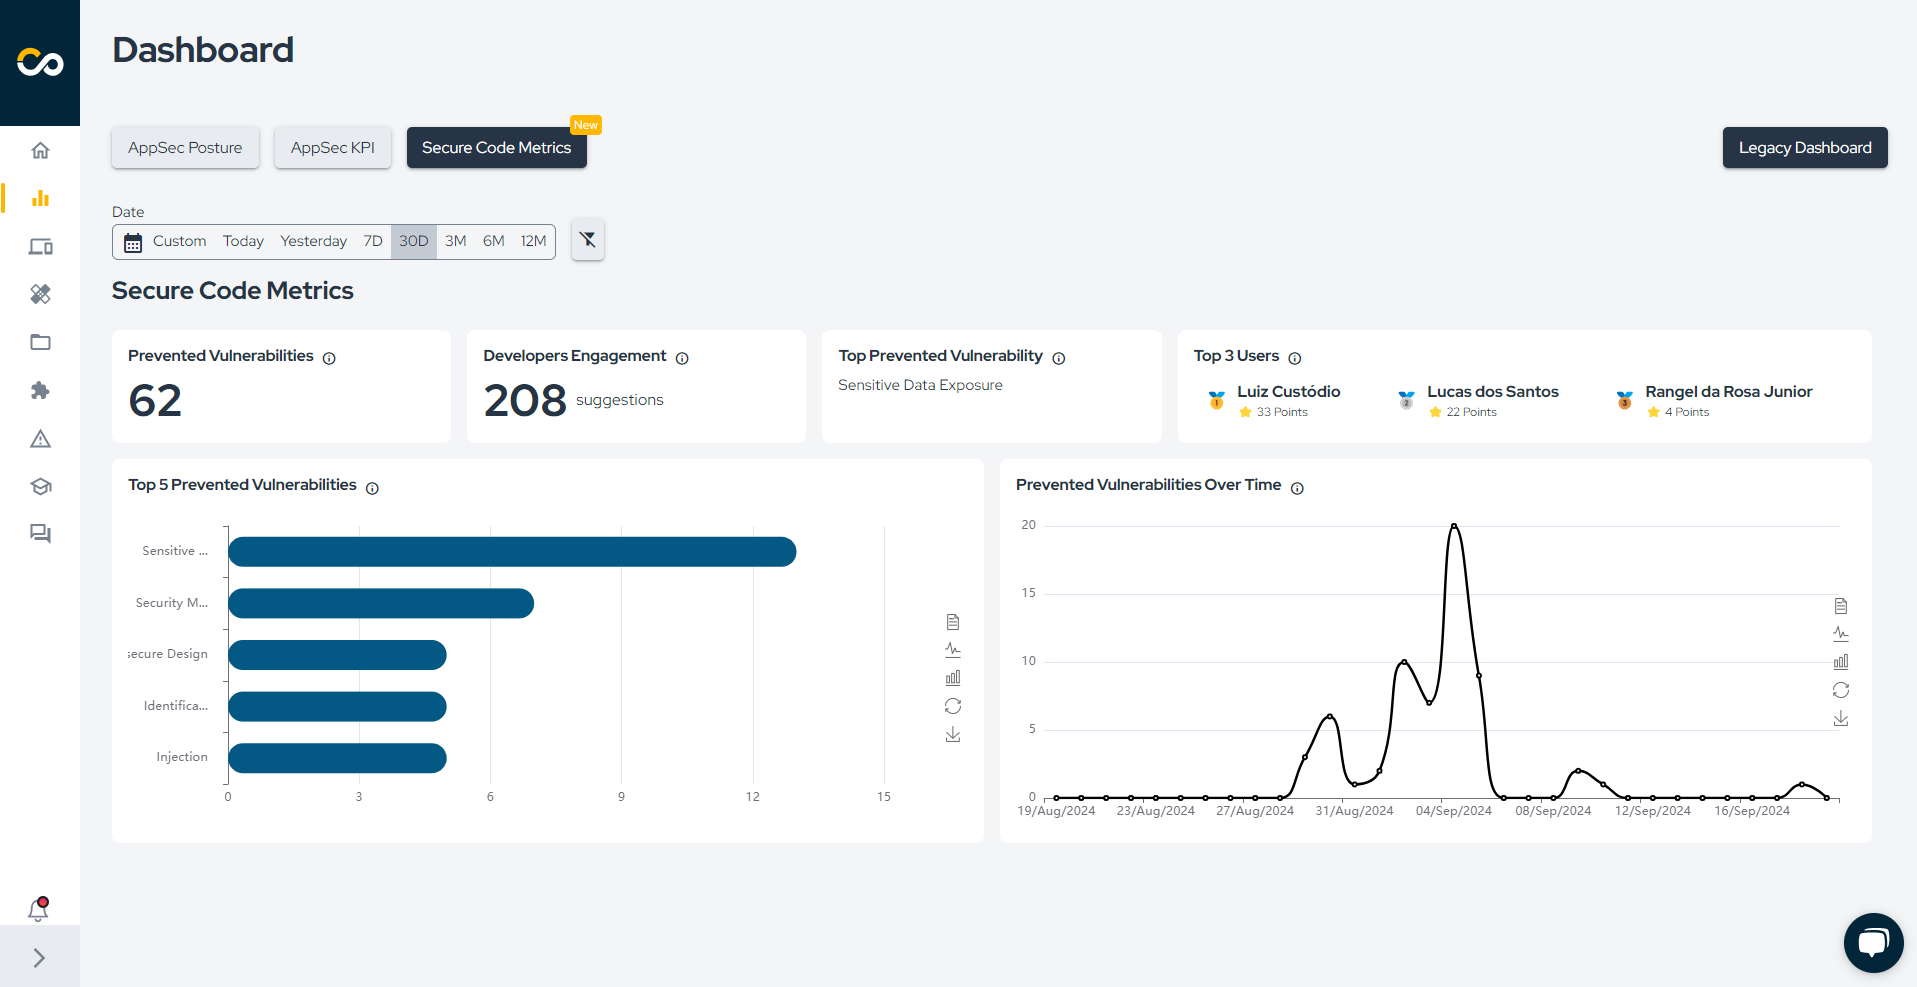
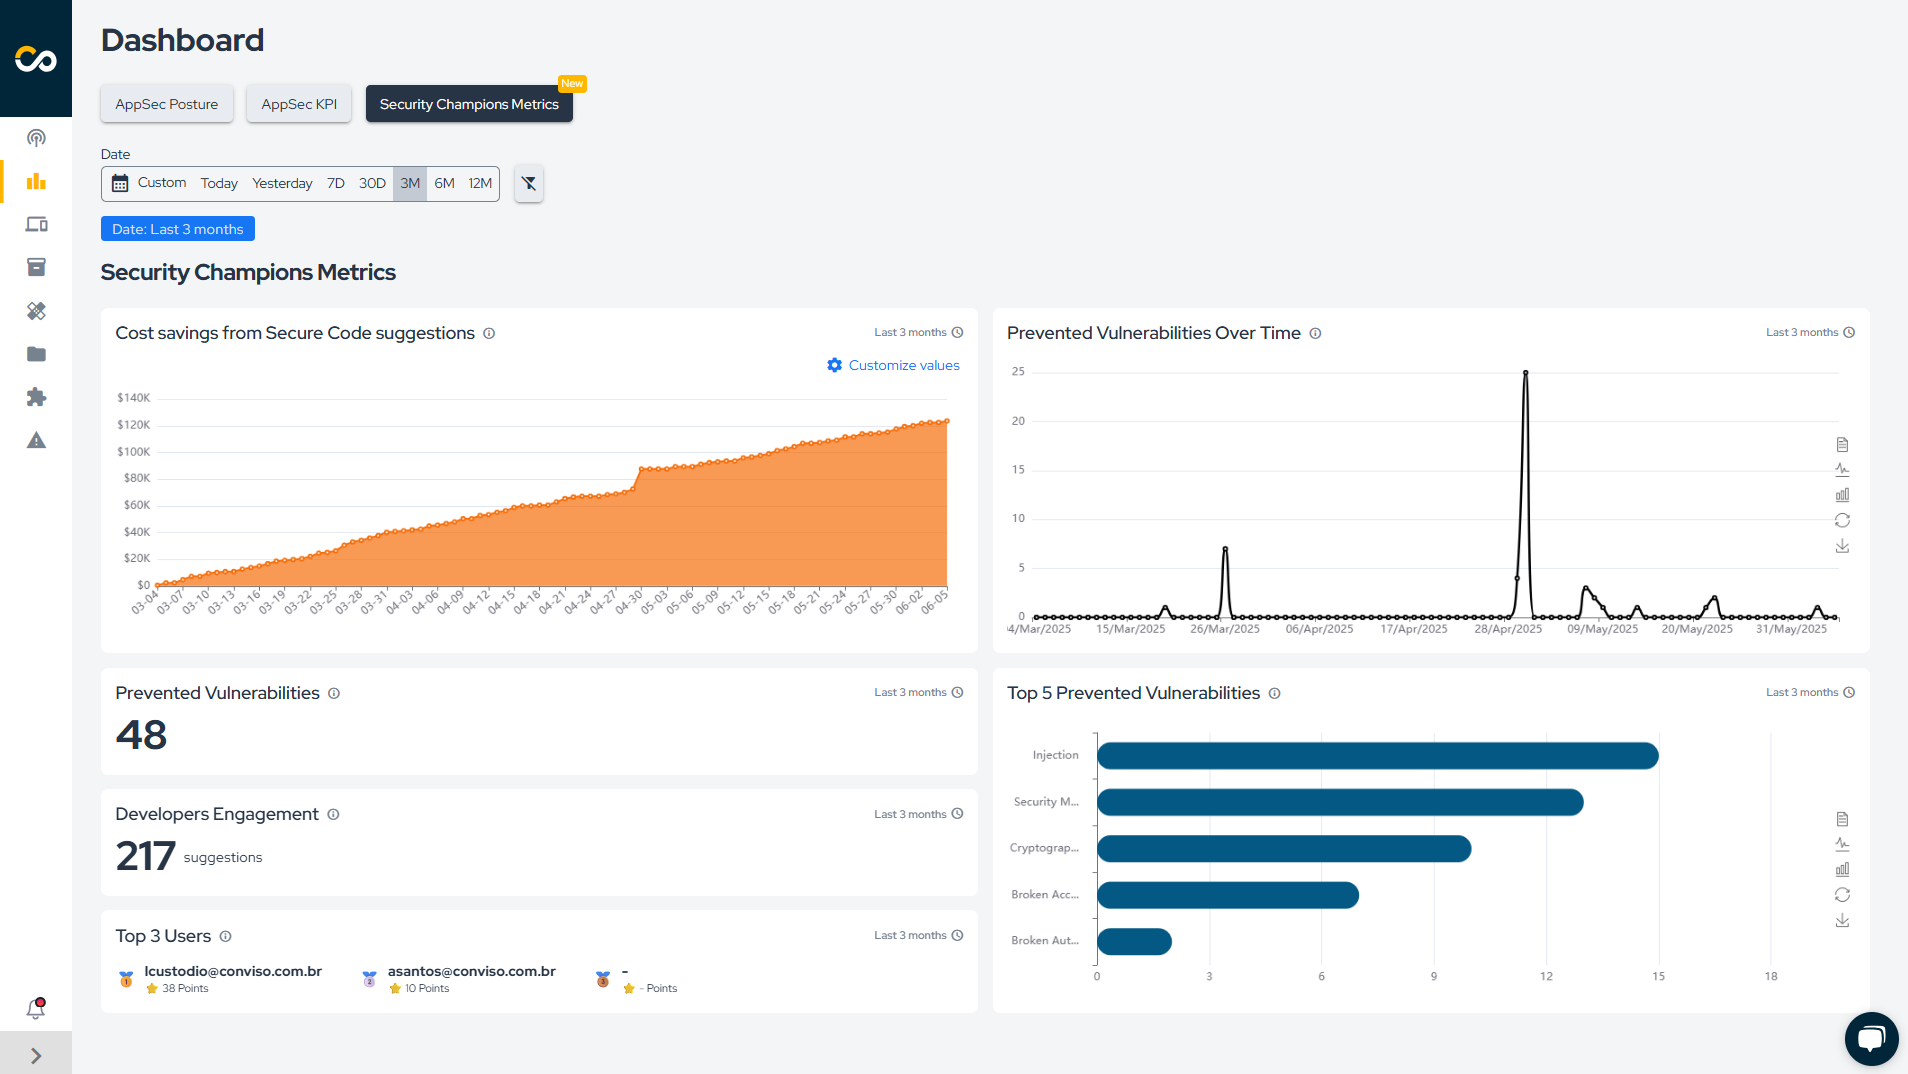
add cost savings from secure code suggestions graphic

diff --git a/docs/platform/dashboard.md b/docs/platform/dashboard.md
@@ -25,8 +25,7 @@ By default, the dashboards are filtered to show the last 30 days. You can change
 There are four different types of dashboards available:
 1. AppSec Posture;
 2. AppSec KPIs;
-3. Secure Code Metrics;
-4. Legacy Dashboard.
+3. Security Champions Metrics.
 
 ## AppSec Posture
 
@@ -58,19 +57,52 @@ The AppSec KPIs Dashboard shows six key metrics:
 
 </div>
 
-## Secure Code Metrics
+## Security Champions Metrics
 
-The Secure Code Metrics Dashboard presents six key metrics:
-1. Prevented Vulnerabilities: Total vulnerabilities prevented based on suggestions provided by our Addon;
-2. Developer Engagement: Total code improvement suggestions provided by Secure Code;
-3. Top Prevented Vulnerability: Top prevented vulnerability type identified during coding;
-4. Top 3 Users: Developers who most frequently use plugin to request code security improvements;
-5. Top 5 Prevented Vulnerabilities: Most frequently identified vulnerability types during the coding stage;
-6. Prevented Vulnerabilities Over Time: Number of vulnerabilities prevented per day.
+The Security Champions Metrics Dashboard presents six key metrics:
+1. Cost savings from Secure Code suggestions: Estimated financial savings resulting from vulnerabilities that were prevented through Secure Code Mentor.
+2. Prevented Vulnerabilities Over Time: Number of vulnerabilities prevented per day.
+3. Prevented Vulnerabilities: Total vulnerabilities prevented based on suggestions provided by our Addon.
+4. Developers Engagement: Total code improvement suggestions provided by Secure Code.
+5. Top 3 Users: Developers who most frequently use plugin to request code security improvements.
+6. Top 5 Prevented Vulnerabilities: Most frequently identified vulnerability types during the coding stage.
 
 <div style={{textAlign: 'center'}}>
 
 [![img](../../static/img/platform/dashboard-img4.png "Secure Code Metrics.")](https://cta-service-cms2.hubspot.com/web-interactives/public/v1/track/redirect?encryptedPayload=AVxigLKtcWzoFbzpyImNNQsXC9S54LjJuklwM39zNd7hvSoR%2FVTX%2FXjNdqdcIIDaZwGiNwYii5hXwRR06puch8xINMyL3EXxTMuSG8Le9if9juV3u%2F%2BX%2FCKsCZN1tLpW39gGnNpiLedq%2BrrfmYxgh8G%2BTcRBEWaKasQ%3D&webInteractiveContentId=125788977029&portalId=5613826)
+
+</div>
+
+### Cost savings from Secure Code suggestions
+
+This metric estimates the financial savings generated by preventing vulnerabilities before they are introduced into the codebase. The calculation is based on the following formula:
+
+```
+AVOIDED_COST = PREVENTED_VULNERABILITIES × HOURS_PER_VULNERABILITY × HOURLY_RATE
+```
+
+- PREVENTED_VULNERABILITIES: Estimated number of vulnerabilities that were avoided thanks to secure development practices.
+- HOURS_PER_VULNERABILITY: Average time required to investigate, fix, and validate a vulnerability (e.g., 8 hours).
+- HOURLY_RATE: Average cost per developer hour (e.g., USD 40).
+
+Example: If 250 vulnerabilities were prevented, each requiring 8 hours to fix at USD 40/hour, then:
+
+```
+AVOIDED_COST = 250 × 8 × 40 = USD 80,000
+```
+
+This value represents the amount of money the organization saved by not having to fix vulnerabilities that were proactively prevented.
+
+How this helps:
+
+- Demonstrates the financial impact of secure development initiatives.
+- Supports investment decisions in AppSec tooling, training, and process improvements.
+- Helps communicate the value of prevention to stakeholders and leadership teams.
+- Aids in prioritization of security efforts based on return on investment.
+
+<div style={{textAlign:'center'}}>
+
+![img](../../static/img/estimated-savings-with-secure-code-mentor.gif)
 
 </div>
 
